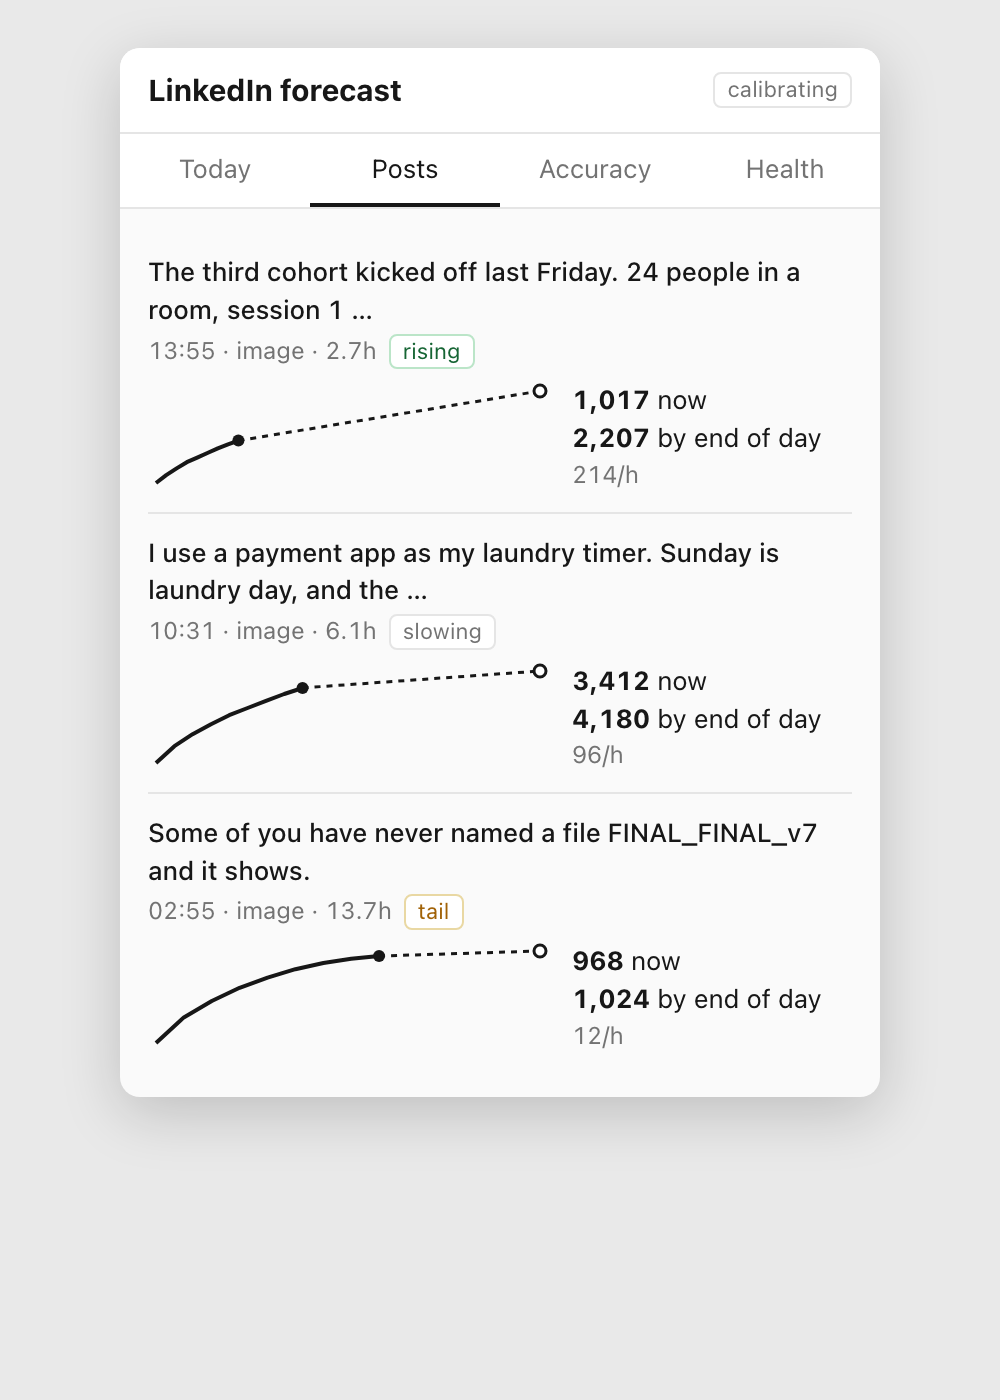
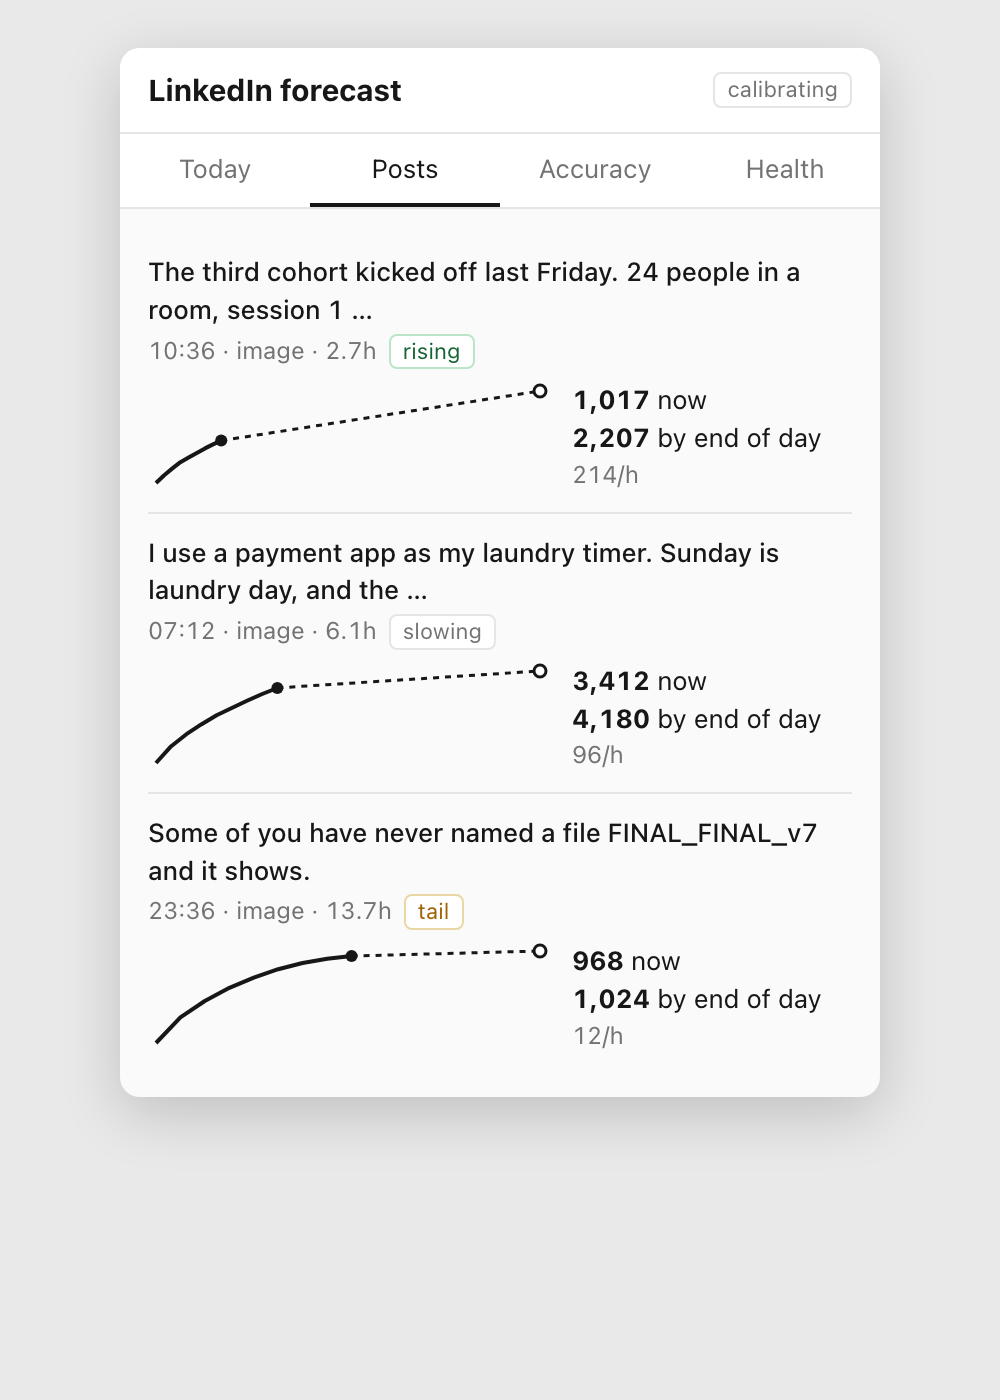
Day interval measured from the account's own closed days; auto-widening removed; range by hour shown in Today and Accuracy; model v3 rebuild clears old forecasts

diff --git a/src/background/engine.ts b/src/background/engine.ts
@@ -7,11 +7,11 @@ import type {
 } from '../shared/types';
 import {
   addDailyReading, addForecast, addSnapshot, allDaily, allForecasts, allPosts, allSnapshots, forecastsFor, getDaily, getPost,
-  putDaily, putForecast, putPost, readingsFor, snapshotsFor, putFollower,
+  putDaily, putForecast, putPost, readingsFor, snapshotsFor, putFollower, clearForecasts,
 } from './store';
 import { getModel, getOnboarding, getSettings, setModel, setOnboarding, timezone } from './state';
 import {
-  dailyEod, dayAhead, evalTail, interp, learnDay, learnDow, learnPost, median, mean, postByHoursBeforeMidnight, postEod, initialModel, secondPostAdd as secondPostAddFn, postTimingScenario,
+  dailyEod, dayAhead, evalTail, interp, learnDay, learnDow, learnPost, median, mean, postByHoursBeforeMidnight, postEod, initialModel, secondPostAdd as secondPostAddFn, postTimingScenario, measuredDaySd, priorDaySd,
   recentTotalsOrLifetime, regimeOf, shiftSDay, typeFactor, MODEL_VERSION, pace as paceOf,
 } from '../model/simple';
 import { resolvePublishedAt } from '../model/urn';
@@ -234,23 +234,6 @@ async function fillForecasts(target: 'post' | 'day', key: string, actual: number
     await putForecast(f);
     touched = true;
   }
-  if (touched) await calibrateIntervals();
-}
-
-/** §7: widen or narrow sd by 10% when coverage over 20+ forecasts drifts outside 65 to 92%. */
-async function calibrateIntervals() {
-  const fs = (await allForecasts()).filter(f => f.inBand !== undefined);
-  const model = await getModel();
-  const adjust = (xs: ForecastRecord[], cur: number) => {
-    if (xs.length < 20) return cur;
-    const cov = xs.filter(f => f.inBand).length / xs.length;
-    if (cov < 0.65) return Math.min(cur * 1.1, 3);
-    if (cov > 0.92) return Math.max(cur * 0.9, 0.4);
-    return cur;
-  };
-  const post = adjust(fs.filter(f => f.target === 'post').slice(-60), model.sdScale.post);
-  const day = adjust(fs.filter(f => f.target === 'day' && f.horizon === 'eod').slice(-60), model.sdScale.day);
-  if (post !== model.sdScale.post || day !== model.sdScale.day) await setModel({ ...model, sdScale: { post, day } });
 }
 
 export async function recentTotalsFor(model: ModelState): Promise<number[]> {
@@ -271,7 +254,7 @@ export async function computePostView(urn: string, snaps?: Snapshot[], now = new
   const hToMidnight = 24 - utcHourOf(now);
   const recent = await recentTotalsFor(model);
   const tf = model.recentTotals.length >= 3 ? typeFactor(model, post.type) : 1;
-  const f = postEod(h, hToMidnight, latest.impressions, recent, { sPost: model.sPost, typeFactor: tf, inNetworkShare: latest.inNetworkShare, sdScale: model.sdScale.post });
+  const f = postEod(h, hToMidnight, latest.impressions, recent, { sPost: model.sPost, typeFactor: tf, inNetworkShare: latest.inNetworkShare });
   const points: [number, number][] = ss.map(s => [hoursBetween(post.publishedAt, s.observedAt), s.impressions]);
   let gainPerHour: number | undefined;
   const earlier = [...ss].reverse().find(s => hoursBetween(s.observedAt, latest.observedAt) >= 20 / 60);
@@ -300,6 +283,7 @@ export async function computePostView(urn: string, snaps?: Snapshot[], now = new
  */
 export async function rebuildModel(): Promise<{ posts: number; trusted: number; actuals: number }> {
   await setModel(initialModel());
+  await clearForecasts();
   const posts = (await allPosts()).sort((a, b) => (a.publishedAt < b.publishedAt ? -1 : 1));
   let trusted = 0, actuals = 0;
   for (const p of posts) {
@@ -307,7 +291,6 @@ export async function rebuildModel(): Promise<{ posts: number; trusted: number; 
     if (p.timeTrusted === undefined) p.timeTrusted = ss.length > 0 && hoursBetween(p.publishedAt, ss[0].observedAt) <= 3;
     delete p.actual24h; delete p.actual24hApprox;
     await putPost(p);
-    for (const f of await forecastsFor(p.urn)) if (f.actual !== undefined) { delete f.actual; delete f.errorPct; delete f.inBand; await putForecast(f); }
     if (p.timeTrusted) trusted++;
   }
   for (const p of posts) {
@@ -363,6 +346,21 @@ export async function paceFor(settings: Settings, model: ModelState, today: stri
   return paceOf(settings.goal, recorded, remainingDays, last3, weekdayOfUtcDate(today), model.dow);
 }
 
+/** Readings from closed days in the last 21 days, paired with the day's final value. */
+async function dayReadingPairs(now: Date): Promise<{ u: number; value: number; actual: number }[]> {
+  const today = utcDateOf(now);
+  const from = addDaysUtc(today, -21);
+  const finals = (await allDaily()).filter(d => d.final && d.utcDate >= from && d.utcDate < today);
+  const pairs: { u: number; value: number; actual: number }[] = [];
+  for (const d of finals) {
+    for (const r of await readingsFor(d.utcDate)) {
+      if (r.source === 'partial' || utcDateOf(r.observedAt) !== d.utcDate) continue;
+      pairs.push({ u: utcHourOf(r.observedAt), value: r.value, actual: d.impressions });
+    }
+  }
+  return pairs;
+}
+
 export async function computeDayView(now = new Date()): Promise<DayForecastView> {
   const today = utcDateOf(now);
   const model = await getModel();
@@ -370,7 +368,16 @@ export async function computeDayView(now = new Date()): Promise<DayForecastView>
   const tz = await timezone();
   const dn = await dailyNowFor(today, now);
   const u = utcHourOf(now);
-  const f = dailyEod(u, dn.value, { sDay: model.sDay, sdScale: model.sdScale.day });
+  const pairs = await dayReadingPairs(now);
+  const sdFor = (uu: number) => {
+    const m = measuredDaySd(pairs, uu, model.sDay);
+    return m ? { sd: m.sd, measured: true } : { sd: priorDaySd(Math.max(interp(model.sDay, uu), 0.02)), measured: false };
+  };
+  const here = sdFor(u);
+  const f = dailyEod(u, dn.value, { sDay: model.sDay, sd: here.sd });
+  const offsetH = tzOffsetMinutes(now, tz) / 60;
+  const rangeByHour = [8, 10, 12, 14, 16, 18, 20, 22].map(localH => ({ localHour: localH, pct: Math.exp(1.28 * sdFor(((localH - offsetH) % 24 + 24) % 24).sd) - 1 }));
+  const rangeDays = new Set(pairs.map(p => Math.round(p.actual))).size;
   const pace = await paceFor(settings, model, today);
   const start = new Date(today + 'T00:00:00Z').getTime();
   const posts = (await allPosts()).filter(p => new Date(p.publishedAt).getTime() >= start && new Date(p.publishedAt).getTime() <= now.getTime());
@@ -389,6 +396,7 @@ export async function computeDayView(now = new Date()): Promise<DayForecastView>
     point: dn.source === 'none' || early ? NaN : f.point, low: f.low, high: f.high, pace,
     fromTodayPosts, fromTails: Math.max(dn.value - fromTodayPosts, 0), regime,
     postByLocal: fmtLocalTime(postByUtc, tz),
+    rangePct: Math.exp(1.28 * here.sd) - 1, rangeByHour, rangeSource: here.measured ? 'measured' : 'prior', rangeDays,
   };
   return view;
 }

diff --git a/src/ui/popup/main.tsx b/src/ui/popup/main.tsx
@@ -74,6 +74,7 @@ function Today({ s, reload }: { s: State; reload: () => void }) {
       <div class="dim">Daily impressions</div>
       <div class="big">{none ? '–' : fmt(t.dailyNow)} <span class="dim" style="font-size:15px; font-weight:400">now</span></div>
       {!none && !t.early && <div style="margin-top:4px"><b>{fmt(t.point)}</b> by end of day <span class="dim">({fmt(t.low)} to {fmt(t.high)})</span></div>}
+      {!none && !t.early && <RangeNote t={t} />}
       {!none && t.early && <div class="dim" style="margin-top:4px">End of day estimate from 06:00 UTC.</div>}
       {none && <div class="note" style="margin-top:8px">No reading for today yet. Open <a href={s.analyticsUrl} target="_blank">your analytics</a> once.</div>}
 
@@ -118,6 +119,30 @@ function Today({ s, reload }: { s: State; reload: () => void }) {
       <h2>Last 28 days</h2>
       <Bars daily={s.daily} />
     </section>
+  );
+}
+
+/** Why the range is what it is right now, and where it goes through the day. */
+function RangeNote({ t }: { t: DayForecastView }) {
+  const later = t.rangeByHour.filter(r => r.pct < t.rangePct * 0.6).sort((a, b) => a.localHour - b.localHour)[0];
+  return (
+    <div class="dim" style="font-size:12px; margin-top:2px" title={`${t.rangeSource === 'measured' ? `Measured from your last ${t.rangeDays} closed days` : 'Prior curve, not yet measured on your days'}. Detail in the Accuracy tab.`}>
+      Range ±{Math.round(t.rangePct * 100)}% at this hour{later ? `, about ±${Math.round(later.pct * 100)}% by ${String(later.localHour).padStart(2, '0')}:00` : ''}.
+    </div>
+  );
+}
+
+function RangeByHour({ t }: { t: DayForecastView }) {
+  const max = Math.max(...t.rangeByHour.map(r => r.pct), 0.05);
+  return (
+    <div>
+      <div class="hours">
+        {t.rangeByHour.map(r => (
+          <div class="hour"><i style={`height:${Math.max(6, (r.pct / max) * 100)}%`} /><span>±{Math.round(r.pct * 100)}%</span><small>{String(r.localHour).padStart(2, '0')}</small></div>
+        ))}
+      </div>
+      <div class="dim" style="font-size:11px">{t.rangeSource === 'measured' ? `Measured from your last ${t.rangeDays} closed days, by local hour.` : 'Prior curve. Measured from your own days once 8 readings exist near each hour.'}</div>
+    </div>
   );
 }
 
@@ -201,6 +226,8 @@ function Accuracy({ s }: { s: State }) {
       <div class="note">Every forecast is kept and scored against the actual once it lands. Rolling 14 days. Confidence: <b>{s.model.regime}</b>, {REGIME_TIP[s.model.regime].toLowerCase()}</div>
       {line('End of day', eod, 'days')}
       {line('Posts at 24h', post, 'posts')}
+      <h2>How the day range tightens</h2>
+      <RangeByHour t={s.today} />
       <h2>End of day, forecast versus actual</h2>
       {errs.length ? (<>
         <div class="spark" title={errs.map(e => `${e.utcDate}: ${e.errorPct > 0 ? 'too high' : 'too low'} by ${pct(Math.abs(e.errorPct))}`).join('\n')}>

diff --git a/src/model/simple.ts b/src/model/simple.ts
@@ -4,7 +4,7 @@
  */
 import type { ModelState, PostType, Regime, Table } from '../shared/types';
 
-export const MODEL_VERSION = 2;
+export const MODEL_VERSION = 3;
 
 export const S_POST_PRIOR: Table = {
   '0.5': 0.10, '1': 0.18, '2': 0.30, '3': 0.40, '4': 0.48, '5': 0.56, '6': 0.63, '8': 0.74,
@@ -198,11 +198,29 @@ export function recentTotalsOrLifetime(recentTotals: number[], lifetimes: number
 
 export interface DayForecast { point: number; low: number; high: number; share: number; sd: number; }
 
-export function dailyEod(u: number, dailyNow: number, opts: { sDay?: Table; sdScale?: number } = {}): DayForecast {
+export function priorDaySd(share: number): number {
+  return 0.06 + 0.35 * (1 - Math.min(share, 1));
+}
+
+/**
+ * Interval width measured from the account's own closed days: the spread of
+ * log(actual / (reading / share)) over readings taken within 2 hours of `u`.
+ * Returns null when fewer than 8 such readings exist.
+ */
+export function measuredDaySd(pairs: { u: number; value: number; actual: number }[], u: number, sDay: Table = S_DAY_PRIOR): { sd: number; n: number } | null {
+  const near = pairs.filter(p => Math.abs(p.u - u) <= 2 && p.value > 0 && p.actual > 0);
+  if (near.length < 8) return null;
+  const logs = near.map(p => Math.log(p.actual / (p.value / Math.max(interp(sDay, p.u), MIN_SHARE))));
+  const m = mean(logs);
+  const sd = Math.sqrt(mean(logs.map(x => (x - m) * (x - m))));
+  return { sd: Math.max(sd, 0.03), n: near.length };
+}
+
+export function dailyEod(u: number, dailyNow: number, opts: { sDay?: Table; sd?: number } = {}): DayForecast {
   const sDay = opts.sDay ?? S_DAY_PRIOR;
   const s = Math.max(interp(sDay, u), MIN_SHARE);
   const total = dailyNow / s;
-  const sd = (0.06 + 0.35 * (1 - Math.min(s, 1))) * (opts.sdScale ?? 1);
+  const sd = opts.sd ?? priorDaySd(s);
   return { point: total, low: total * Math.exp(-Z80 * sd), high: total * Math.exp(Z80 * sd), share: s, sd };
 }
 

diff --git a/docs/demo/mock.js b/docs/demo/mock.js
@@ -4,7 +4,7 @@
   const day = i => new Date(today.getTime() - i * 86400000).toISOString().slice(0, 10);
   const daily = [4009, 5706, 2741, 3459, 11324, 10797, 6328];
   const history = daily.map((v, i) => ({ utcDate: day(7 - i), impressions: v, today: false })).concat([{ utcDate: day(0), impressions: 2891, today: true }]);
-  const dayView = { utcDate: day(0), u: 14.2, dailyNow: 2891, dailyNowSource: 'analytics', early: false, point: 6105, low: 5410, high: 6890, pace: 5200, fromTodayPosts: 1017, fromTails: 1874, regime: 'calibrating', postByLocal: '12:12' };
+  const dayView = { utcDate: day(0), u: 14.2, dailyNow: 2891, dailyNowSource: 'analytics', early: false, point: 6105, low: 5410, high: 6890, pace: 5200, fromTodayPosts: 1017, fromTails: 1874, regime: 'calibrating', postByLocal: '12:12', rangePct: 0.13, rangeSource: 'measured', rangeDays: 14, rangeByHour: [[8,0.62],[10,0.41],[12,0.27],[14,0.16],[16,0.11],[18,0.07],[20,0.05],[22,0.03]].map(([localHour,pct])=>({localHour,pct})) };
   const S=[[0.5,0.1],[1,0.18],[2,0.3],[3,0.4],[4,0.48],[5,0.56],[6,0.63],[8,0.74],[10,0.82],[12,0.87],[15,0.92],[18,0.95],[21,0.98],[24,1]];
   const shape=h=>{ if(h<=0.5) return 0.1*h/0.5; for(let i=1;i<S.length;i++){ if(h<=S[i][0]){const [a,va]=S[i-1],[b,vb]=S[i]; return va+(vb-va)*(h-a)/(b-a);} } return 1; };
   const post = (urn, publishedAt, hours, impressions, point, low, high, gain, status, text) => ({ urn, publishedAt, hours, impressions, point, low, high, gainPerHour: gain, tailMode: status === 'tail', status, textPreview: text, series: Array.from({ length: 8 }, (_, i) => { const h = hours * (i + 1) / 8; return [h, Math.round(impressions * shape(h) / shape(hours))]; }), regime: 'calibrating', type: 'image', observedAt: new Date().toISOString() });

diff --git a/tests/model.test.ts b/tests/model.test.ts
@@ -152,3 +152,16 @@ describe('post timing scenario', () => {
     expect(s.reach48Today).toBeGreaterThan(s.reach48Tomorrow);
   });
 });
+
+describe('measured day interval', () => {
+  it('needs 8 readings near the hour, then reflects the observed spread', async () => {
+    const { measuredDaySd, interp, S_DAY_PRIOR } = await import('../src/model/simple');
+    const tight = Array.from({ length: 10 }, (_, i) => ({ u: 15 + (i % 3) * 0.5, value: 3000 * interp(S_DAY_PRIOR, 15 + (i % 3) * 0.5) * (1 + (i % 2 ? 0.02 : -0.02)), actual: 3000 }));
+    expect(measuredDaySd(tight.slice(0, 5), 15)).toBeNull();
+    const m = measuredDaySd(tight, 15)!;
+    expect(m.n).toBe(10);
+    expect(m.sd).toBeLessThan(0.05);
+    const loose = tight.map((p, i) => ({ ...p, actual: i % 2 ? 4500 : 2000 }));
+    expect(measuredDaySd(loose, 15)!.sd).toBeGreaterThan(0.3);
+  });
+});

diff --git a/src/ui/styles.css b/src/ui/styles.css
@@ -59,3 +59,8 @@ pre { font-size:11px; background:#f0f0f0; padding:8px; border-radius:6px; overfl
 .scn th:first-child { color:var(--fg); font-weight:600; font-size:13px; }
 .scn td, .scn th { border-bottom:0; padding:3px 0; }
 .decision + .decision { margin-top:8px; }
+
+.hours { display:flex; gap:6px; align-items:flex-end; height:84px; margin:6px 0 4px; }
+.hour { flex:1; display:flex; flex-direction:column; align-items:center; justify-content:flex-end; height:100%; font-size:10px; color:var(--dim); }
+.hour i { display:block; width:100%; background:#404040; border-radius:2px 2px 0 0; }
+.hour span { margin-top:3px; color:var(--fg); }

diff --git a/tests/replay.test.ts b/tests/replay.test.ts
@@ -35,7 +35,7 @@ describe('end-to-end replay', () => {
     let within = 0, covered = 0;
     for (const day of fx.replay) {
       const r = day.readings.find(x => utcHourOf(x.observedAt) === 16)!;
-      const f = dailyEod(16, r.value, { sDay: model.sDay, sdScale: model.sdScale.day });
+      const f = dailyEod(16, r.value, { sDay: model.sDay });
       if (Math.abs(f.point - day.actual) / day.actual <= 0.15) within++;
       if (f.low <= day.actual && day.actual <= f.high) covered++;
       // The day closes: learn from all of its readings.

diff --git a/src/background/store.ts b/src/background/store.ts
@@ -77,6 +77,8 @@ export const addNudge = (n: NudgeRecord) => db.add('nudges', n);
 export const putNudge = (n: NudgeRecord) => db.put('nudges', n);
 export const allNudges = () => db.getAll<NudgeRecord>('nudges');
 
+export const clearForecasts = () => db.clear('forecasts');
+
 export async function clearAll() {
   for (const s of ['posts', 'snapshots', 'daily', 'dailyReadings', 'followers', 'forecasts', 'nudges'] as StoreName[]) await db.clear(s);
 }

diff --git a/src/shared/types.ts b/src/shared/types.ts
@@ -189,4 +189,8 @@ export interface DayForecastView {
   fromTails: number;
   regime: Regime;
   postByLocal?: string;
+  rangePct: number;             // half-width of the 80% range as a share of the point, at this hour
+  rangeByHour: { localHour: number; pct: number }[];
+  rangeSource: 'measured' | 'prior';
+  rangeDays: number;            // closed days behind the measured range
 }
